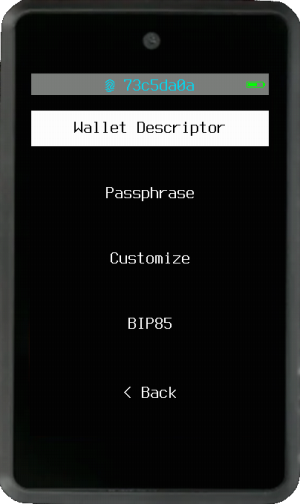
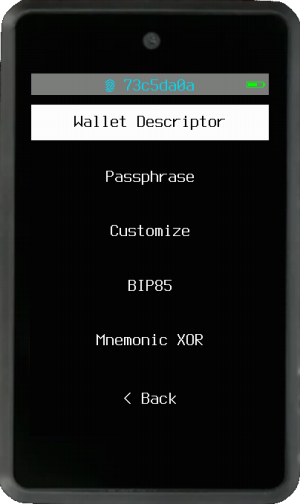
review xor docs

diff --git a/docs/getting-started/features/mnemonic-xor.en.md b/docs/getting-started/features/mnemonic-xor.en.md
@@ -1,84 +1,75 @@
 # What is the Mnemonic XOR?
 
-It is an implementation of XOR ([exclusive OR](https://en.wikipedia.org/wiki/Exclusive_or)) logical operation executed upon entropy of 2 or more mnemonics to combine their entropy, based on [Coinkite's SeedXOR](https://github.com/Coldcard/firmware/blob/master/docs/seed-xor.md).
+It is an implementation of XOR ([exclusive OR](https://en.wikipedia.org/wiki/Exclusive_or)) operation across the entropy values of two or more mnemonics to produce a combined result, based on [Coinkite's SeedXOR](https://github.com/Coldcard/firmware/blob/master/docs/seed-xor.md).
 
-# How it works
+## How it works
 
-To derive a new mnemonic (and thus, a new seed) from other mnemonics, Krux performs an XOR operation on the **mnemonic's entropy bytes**.
-An XOR operation between them results in new **entropy bytes** that will be converted to a new mnemonic and then to a new seed:
+Krux derives a new mnemonic (and therefore a new seed) by performing an XOR operation on the **entropy bytes** of the source mnemonics. The result of this XOR operation is a new set of **entropy bytes**, which are then converted into a new mnemonic - and subsequently, a new seed.
 
 <img src="../../../img/mnemonic_xor.png" align="center">
 
-- We get two different mnemonics (A and B), extract their **entropy bytes**;
-- validate the input entropies to avoid useless or dangerous operations:
-  - `A XOR B = A`: this means B is all zeros (useless operation - it will not change the XORed mnemonic);
-  - `A XOR B = A'` where `A'` is the bitwise complement of `A`: this means B is all ones (dangerous - creates a predictable inverse);
-- Krux will also ensure that the mnemonics to be XORed have the same length;
-- once the inputs are checked, Krux will apply an XOR operation between the **entropy bytes**;
-- validate the output entropy (same as above);
-- convert the valid **entropy bytes** output to a new mnemonic (C);
-- the user then can apply a password (optional) and get a new **master seed**.
+- Obtain two different mnemonics (A and B) and extract their **entropy bytes**.
+- Validate the input entropies to prevent redundant or unsafe operations:
 
-# Split and recover shares
+    - `A XOR B = A`: indicates that B consists entirely of zeros (useless - no change to the result).
+    - `A XOR B = A'`, where `A'` is the bitwise complement of `A`: indicates that B consists entirely of ones (dangerous - produces a predictable inverse).
 
-You can split a mnemonic into two separate mnemonics (or "shares") using the XOR operation. Neither share reveals any information about the original secret on its own. The original mnemonic can only be recovered when **both shares are combined**.
+- Ensure that both mnemonics have the same length before proceeding.
+- Perform the XOR operation between **entropy bytes** from `A` and `B`.
+- Validate the resulting entropy `C` (same checks as above).
+- Convert the valid **entropy bytes** `C` into a new mnemonic `C`.
+- Optionally, the user may apply a password to derive a new master seed.
+
+---
+
+## Split and Recover Parts (or "shares")
+
+A mnemonic can be split into two separate parts (or "shares") using the XOR operation. Each share by itself reveals nothing about the original secret. The original mnemonic can only be reconstructed when **both shares are combined**.
 
 ### Core Principle
 
-We make use of a XOR property:
+This method relies on a fundamental property of XOR:
 
 If `A XOR B = C`, then `B XOR C = A`.
 
-- **A**: Your original mnemonic (the secret to protect);
-- **B**: A newly generated, random mnemonic (Share 1);
-- **C**: The resulting mnemonic from the XOR operation (Share 2).
+- **A**: The original mnemonic (the secret to protect)
+- **B**: A newly generated random mnemonic (Share 1)
+- **C**: The mnemonic produced by the XOR operation (Share 2)
 
----
+### Step-by-Step Guide to Splitting Your Mnemonic
 
-## Step-by-Step Guide to Splitting Your Mnemonic
+#### Phase 1: Splitting Process
 
-### Phase 1: The Splitting Process
+##### Generate a Random Share (Mnemonic B)
 
-#### Step 1: Generate a Random Share (Mnemonic B)
+1. Generate a new random mnemonic using dice rolls or an image.
+2. **Important:** This mnemonic must have the same number of words (12 or 24) as your original mnemonic `A`.
 
-1. Generate a new, random mnemonic from dice rolls or an image;
-2. **CRITICAL**: This mnemonic must have the same number of words (12 or 24) as your original mnemonic (A).
+##### Back Up Mnemonic B
+- Use a reliable and secure method to back up mnemonic `B`.
 
-#### Step 2: Backup Mnemonic B
+##### Perform the XOR Operation
 
-- Use a safe method to backup mnemonic B.
+1. Load mnemonic `A`.
+2. Navigate to **Wallet -> Mnemonic XOR**.
+3. Load mnemonic `B` to be XORed with `A`.
+4. The resulting entropy from `A XOR B` will be used to generate the second share - mnemonic `C`.
 
-#### Step 3: Perform the XOR Operation
+##### Back Up Mnemonic C
+- Go to **Backup** and securely store mnemonic `C` using your preferred backup method.
 
-1. Load mnemonic A, go to **Wallet -> Mnemonic XOR** and load mnemonic B to be XORed with A;
-2. The resulting entropy of `A XOR B` will be used to create the second share, mnemonic C.
+#### Phase 2: Verification & Finalization
+Don't trust, verify!
 
-#### Step 4: Back Up Mnemonic C
+1. Retrieve your backups of mnemonics `B` and `C`.
+2. Load one of them and XOR it with the other.
+3. Confirm that the resulting mnemonic matches the original mnemonic `A`.
 
-1. Go to **Backup** and choose your favorite secure method to backup mnemonic C.
----
+⚠ **Only after successful verification** should you securely destroy the original mnemonic `A`.
 
-### Phase 2: Verification & Finalization
+#### Important Notes
 
-> ⚠ **DO NOT SKIP THIS PHASE**
-
-#### Step 5: Verify the Recovery Process
-
-**This is non-negotiable.** Before relying on the system or destroying the original mnemonic, perform a test:
-
-1. Retrieve mnemonic B and C backups;
-2. Load one of them and XOR it with the other;
-3. Verify that the resulting mnemonic matches the original mnemonic A.
-
-#### Step 6: Destroy the Original
-
-⚠ **Only after you have successfully verified in Step 5** that the recovery works perfectly should you securely destroy the original mnemonic (A).
-
----
-
-## Important Notes
-
-- **Keep shares separate**: Store mnemonic B and mnemonic C in different secure locations;
-- **Both shares required**: Neither share alone provides any information about the original mnemonic;
-- **Always verify**: Test the recovery process before destroying the original;
-- **Same word count**: All three mnemonics (A, B, and C) must have the same number of words.
+- **Keep shares separate:** Store mnemonics `B` and `C` in different secure locations.
+- **Both shares required:** Neither share alone reveals any information about the original mnemonic.
+- **Always verify!:** Test the recovery process before destroying the original.
+- **Matching word count:** All three mnemonics (`A`, `B`, and `C`) must have the same number of words.

diff --git a/docs/getting-started/usage/navigating-the-main-menu.en.md b/docs/getting-started/usage/navigating-the-main-menu.en.md
@@ -218,10 +218,14 @@ Choose between *12 or 24 words*, then type the desired *index* to export a *chil
 To create a *Base64 password*, which can be used in a variety of logins, from email to social media accounts, choose an index and then a length of at least 20 characters. The resulting password will be displayed on the screen and can also be exported to an SD Card or as a QR code.
 
 #### Mnemonic XOR
+<img src="../../../img/maixpy_m5stickv/xor-message-250.png" align="right" class="m5stickv">
+<img src="../../../img/maixpy_amigo/xor-message-300.png" align="right" class="amigo">
 
-Mnemonic XOR allows you to combine two or more mnemonics using an XOR (exclusive OR) operation on their entropy bytes to create a new mnemonic. This feature can be used to split a mnemonic into multiple shares or to combine existing mnemonics.
+Mnemonic XOR enables the **combination of two or more mnemonics** by applying an XOR (exclusive OR) operation to their entropy bytes, **resulting in a new mnemonic**. This functionality can be used to split a mnemonic into multiple parts (or "shares") or to merge existing ones.
 
-For detailed instructions on combining, splitting and recovering mnemonics using XOR, please refer to the [Mnemonic XOR documentation](../features/mnemonic-xor.md).
+For detailed instructions on combining, splitting, and recovering mnemonics using XOR, see [Mnemonic XOR](../features/mnemonic-xor.md).
+
+<div style="clear: both"></div>
 
 ### Address
 <img src="../../../img/maixpy_m5stickv/address-menu-250.png" align="right" class="m5stickv">
